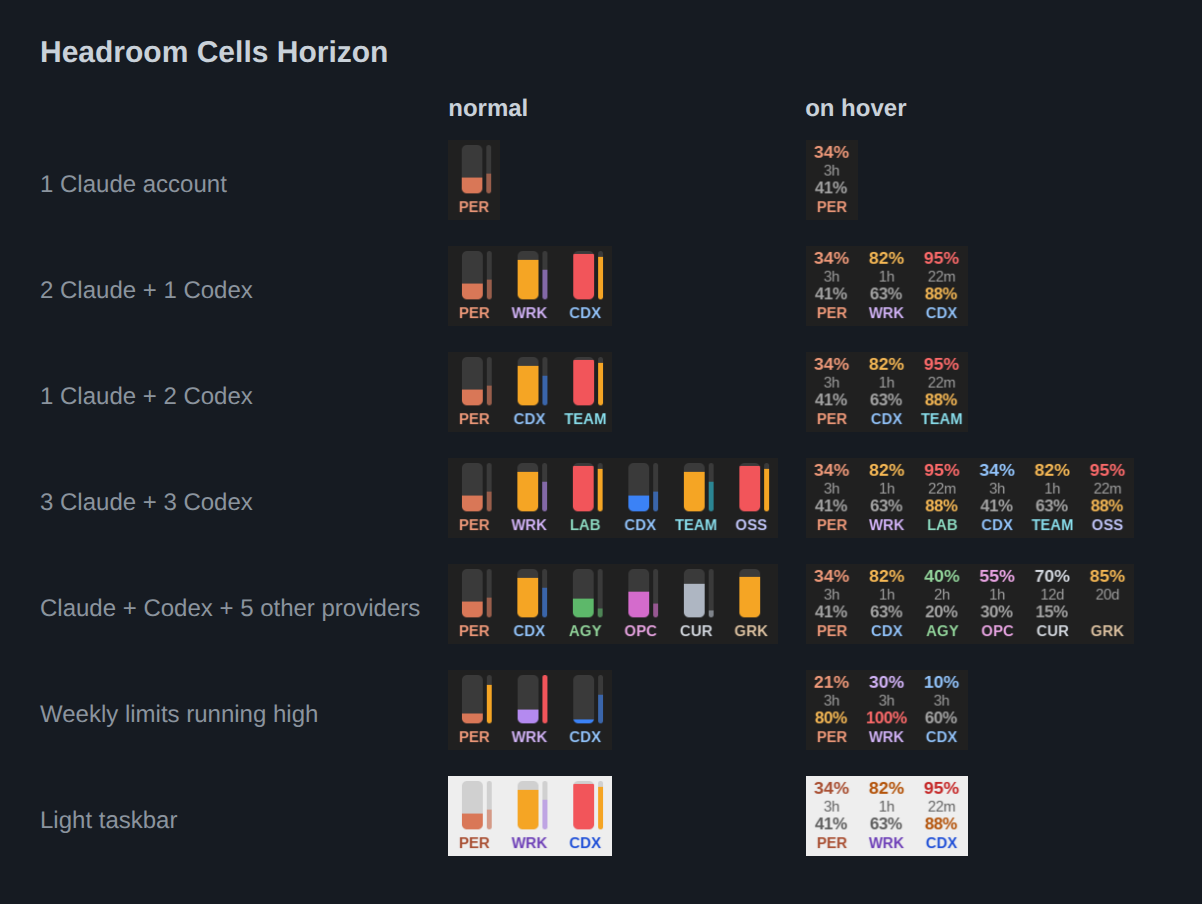
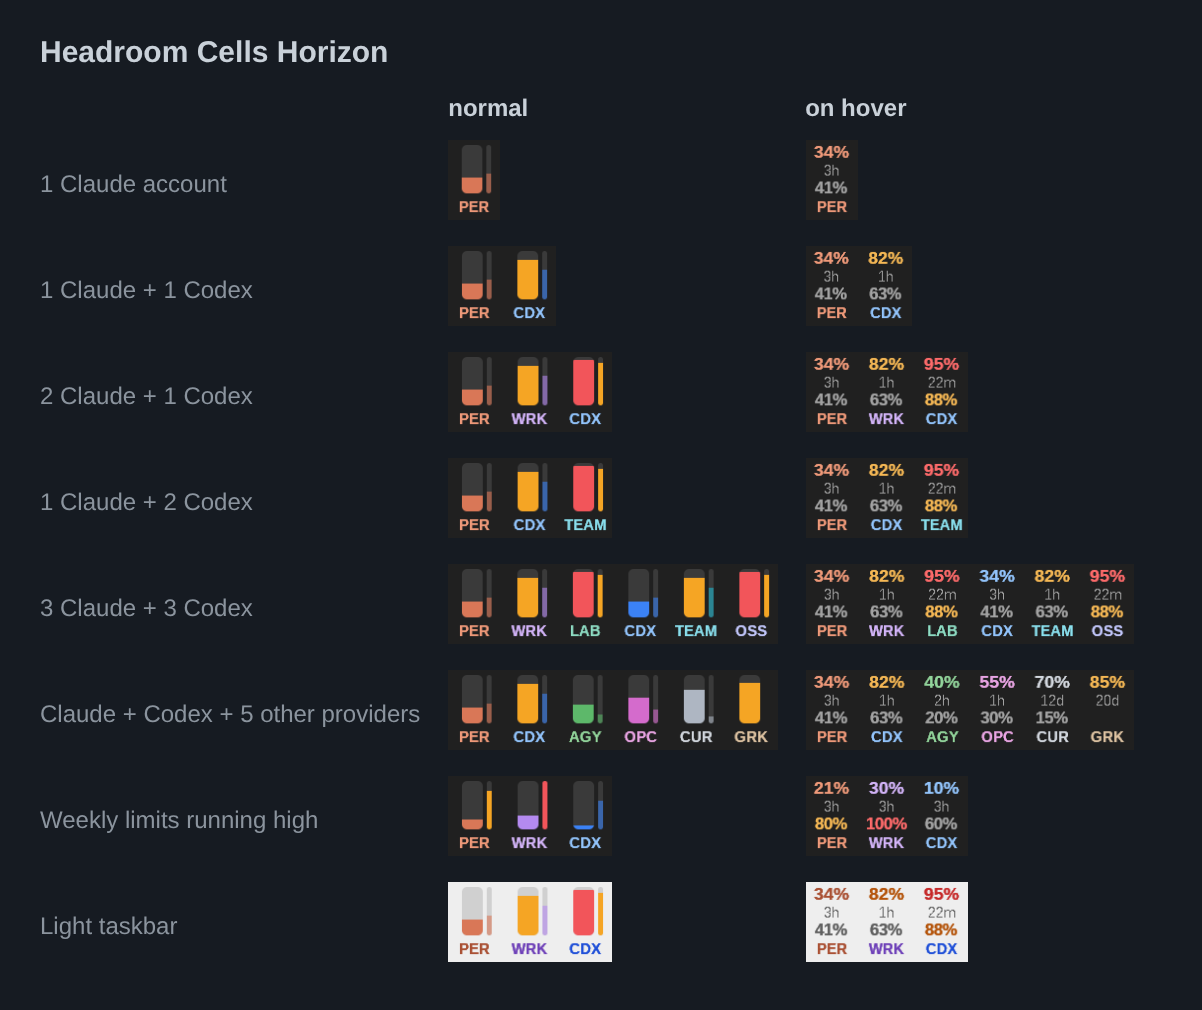
Open the dashboard on double-click and spell out the limits
Double-clicking a theme now opens the monitor's dashboard, as the
bundled Minecraft theme does; before, only right-click did anything.
The README intro now says how many Claude, Codex and other accounts the
themes show, and each theme's preview adds a 1 Claude + 1 Codex row.

diff --git a/generator/engine-test/make_previews.py b/generator/engine-test/make_previews.py
@@ -32,7 +32,8 @@ STATES = [("weekly-high", "Weekly limits running high (PER 80%, WRK 100%)", "dar
           ("remaining", "Showing what's left (Remaining)", "dark"),
           ("c2x1", "Light taskbar", "light"),
           ("weekly-high", "Light taskbar, weekly limits running high", "light")]
-PER_THEME = [("c1x0", "1 Claude account", "dark"), ("c2x1", "2 Claude + 1 Codex", "dark"),
+PER_THEME = [("c1x0", "1 Claude account", "dark"), ("c1x1", "1 Claude + 1 Codex", "dark"),
+             ("c2x1", "2 Claude + 1 Codex", "dark"),
              ("c1x2", "1 Claude + 2 Codex", "dark"), ("c3x3", "3 Claude + 3 Codex", "dark"),
              ("all-providers", "Claude + Codex + 5 other providers", "dark"),
              ("weekly-high", "Weekly limits running high", "dark"), ("c2x1", "Light taskbar", "light")]

diff --git a/generator/build.py b/generator/build.py
@@ -424,6 +424,7 @@ def build_theme(design, base):
     surface["width"], surface["height"] = spec["width"](n), "46"
     first, second = spec["views"][0][0], spec["views"][1][0]
     surface["mouse_events"] = {
+        "double_click": "show_dashboard()",
         "right_click": 'show_context_menu("classic-v1")',
         "mouse_enter": f'set("{first}", render, 0); set("{second}", render, 1)',
         "mouse_leave": f'reset("{first}", render); reset("{second}", render)',

diff --git a/README.md b/README.md
@@ -2,9 +2,9 @@
 
 Headroom is a set of compact taskbar themes for [Claude Code Usage Monitor](https://github.com/CodeZeno/Claude-Code-Usage-Monitor),
 the Windows taskbar widget by CodeZeno. They show how much headroom you have left on your AI usage
-limits: every Claude and Codex account you've set up, plus Antigravity, OpenCode, Cursor, Grok and
-Copilot if you've turned them on in the monitor. Each one gets a slot, and each theme sizes itself to
-the slots you use, so there's nothing to pick per setup.
+limits: up to 5 Claude accounts and 5 Codex accounts, plus Antigravity, OpenCode, Cursor, Grok and
+Copilot (one account each) if you've turned them on in the monitor. Lanes shows up to 3 of these at
+once and the other themes up to 6, and each theme widens or narrows to fit how many it's showing.
 
 ![All four themes with different mixes of accounts and providers](previews/designs.png)
 
